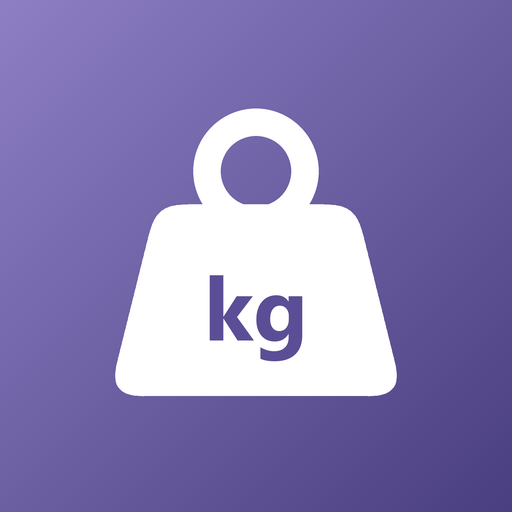
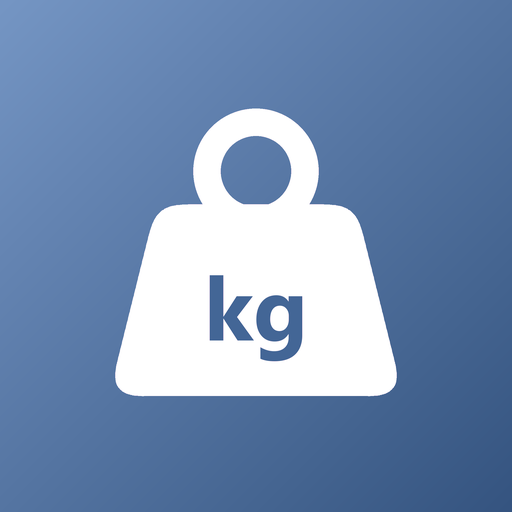
0.1.13: гама «Глибокий синій» — синій акцент і середнє, кораловий план, сиреневу талію; іконка в тон; вибраний день на графіку позначено кільцем

Changed region(s): [[0.0, 0.0, 0.4375, 0.4375], [0.4062, 0.5312, 0.5938, 0.7188]]

diff --git a/css/app.css b/css/app.css
@@ -1,24 +1,24 @@
 :root {
-  --bg: #121019;
-  --bg-glow: #1f1830;
-  --surface: #19161f;
-  --surface-2: #231f2c;
-  --line: #322c3d;
-  --line-soft: #292433;
-  --text: #eeebf3;
-  --muted: #9d96a8;
-  --accent: #7d6bb8;
-  --accent-2: #a99cd6;
+  --bg: #0c111a;
+  --bg-glow: #132038;
+  --surface: #121926;
+  --surface-2: #1a2333;
+  --line: #26324a;
+  --line-soft: #1f2a3d;
+  --text: #e9eef7;
+  --muted: #8f9bb0;
+  --accent: #3f7fd9;
+  --accent-2: #79aaf0;
   --accent-soft: color-mix(in srgb, var(--accent) 16%, transparent);
   --good: #4cc38a;
   --bad: #e2725b;
   --warn: #dbad3a;
-  /* серії графіка: середнє — акцент, план — рожевий, точки зважувань — нейтральні */
+  /* серії графіка: середнє — акцент, план — кораловий, точки зважувань — нейтральні */
   --c-avg: var(--accent-2);
-  --c-plan: #d99ab5;
+  --c-plan: #e39a7a;
   --c-kg: #b7c2ca;
   --c-ring: #e8b04a;
-  --c-waist: #6fb5e8;
+  --c-waist: #c3a3ea;
   --radius: 16px;
   --tabs-h: 64px;
   --shadow: 0 1px 0 rgb(255 255 255 / .03) inset, 0 6px 16px rgb(0 0 0 / .22);
@@ -27,24 +27,24 @@
 
 /* Тему ставить data-theme на <html>: скрипт у index.html ще до малювання, потім app.js. */
 :root[data-theme="light"] {
-  --bg: #f4f2f7;
-  --bg-glow: #e9e3f4;
+  --bg: #f1f4f9;
+  --bg-glow: #dfe8f6;
   --surface: #ffffff;
-  --surface-2: #eeebf2;
-  --line: #ddd8e4;
-  --line-soft: #e8e4ee;
-  --text: #1c1726;
-  --muted: #686175;
-  --accent: #63559e;
-  --accent-2: #54478c;
+  --surface-2: #e9eef5;
+  --line: #d5dce8;
+  --line-soft: #e3e8f0;
+  --text: #141b27;
+  --muted: #5d6878;
+  --accent: #2563b8;
+  --accent-2: #1d529c;
   --good: #1f8a55;
   --bad: #c2462d;
-  --c-avg: #63559e;
-  --c-plan: #a8577c;
+  --c-avg: #2563b8;
+  --c-plan: #b8603d;
   --c-kg: #7c8890;
   --c-ring: #b8790f;
-  --c-waist: #2b7fc0;
-  --shadow: 0 1px 2px rgb(35 20 50 / .06), 0 6px 16px rgb(35 20 50 / .06);
+  --c-waist: #7a4fb0;
+  --shadow: 0 1px 2px rgb(20 30 50 / .06), 0 6px 16px rgb(20 30 50 / .06);
   color-scheme: light;
 }
 
@@ -306,6 +306,7 @@ button, input, select, textarea { font: inherit; color: inherit; }
 .chart-svg .series-dots circle.ring { fill: none; stroke: var(--c-ring); stroke-width: 1.3; opacity: .85; }
 .chart-svg .hline line { stroke: var(--muted); stroke-width: 1; opacity: .35; }
 .chart-svg .hline.target line { stroke: var(--accent-2); opacity: .8; }
+.chart-svg .picked circle { fill: none; stroke: var(--accent-2); stroke-width: 2.5; }
 .chart-svg .cursor line { stroke: var(--muted); stroke-width: 1; }
 .chart-svg .cursor .hit { stroke: var(--surface); stroke-width: 2; }
 .chart-svg .cursor .hit.s-avg { fill: var(--c-avg); }
@@ -698,10 +699,10 @@ button.row { cursor: pointer; }
   margin: 0 auto;
   padding: 12px 14px;
   border-radius: 14px;
-  background: #2c2638;
-  color: #f1eef6;
+  background: #1f2a3f;
+  color: #eef2f9;
   box-shadow: 0 10px 24px rgb(0 0 0 / .35);
   animation: toast-in .18s ease;
 }
-.toast button { border: 0; background: none; color: #c6bde6; font-weight: 800; cursor: pointer; padding: 4px 8px; }
+.toast button { border: 0; background: none; color: #9cc0f5; font-weight: 800; cursor: pointer; padding: 4px 8px; }
 @keyframes toast-in { from { opacity: 0; transform: translateY(8px); } }

diff --git a/js/chart.js b/js/chart.js
@@ -275,6 +275,16 @@ export function lineChart(spec) {
     });
     svg.append(marks, labels);
 
+    // Вибраний день — кільце навколо точки (зважування, а без точок — лінії), без курсора й підказки
+    const picked = s('g', { class: 'picked' });
+    svg.append(picked);
+    const mark = (date) => {
+      const se = spec.series.find((x) => x.kind === 'dots' && !x.aside) ?? spec.series.find((x) => x.kind === 'line' && !x.aside);
+      const p = date && dates.includes(date) ? se?.points.find((q) => q.date === date && Number.isFinite(q.v)) : null;
+      picked.replaceChildren(...(p ? [s('circle', { cx: x(date).toFixed(1), cy: y(p.v).toFixed(1), r: 7 })] : []));
+    };
+    mark(selected);
+
     const cursor = s('g', { class: 'cursor', visibility: 'hidden' }, s('line', { y1: pad.t, y2: height - pad.b }));
     const hits = s('g', {});
     cursor.append(hits);
@@ -315,7 +325,7 @@ export function lineChart(spec) {
       return Math.max(0, Math.min(1, (py - pad.t) / ih));
     };
     if (svg.parentNode !== plot) plot.replaceChildren(svg);
-    cur = { place, nearest, frac, fracY, y: [lo, hi], autoY, daysPerPx: spanDays / iw / (svg.getBoundingClientRect().width / width || 1) };
+    cur = { place, mark, nearest, frac, fracY, y: [lo, hi], autoY, daysPerPx: spanDays / iw / (svg.getBoundingClientRect().width / width || 1) };
     place(null);
   }
 
@@ -366,6 +376,7 @@ export function lineChart(spec) {
       lastTap = { at: now, x: e.clientX };
     }
     selected = cur.nearest(e.clientX);
+    cur.mark(selected);
     cur.place(was.mouse ? selected : null);
     if (selected) spec.onPick?.(selected);
   });

diff --git a/js/app.js b/js/app.js
@@ -883,7 +883,7 @@ function applyTheme() {
   const pref = themePref();
   const theme = pref === 'auto' ? (lightScheme.matches ? 'light' : 'dark') : pref;
   document.documentElement.dataset.theme = theme;
-  document.querySelector('meta[name="theme-color"]')?.setAttribute('content', theme === 'light' ? '#f4f2f7' : '#121019');
+  document.querySelector('meta[name="theme-color"]')?.setAttribute('content', theme === 'light' ? '#f1f4f9' : '#0c111a');
 }
 
 lightScheme.addEventListener('change', applyTheme);

diff --git a/index.html b/index.html
@@ -3,7 +3,7 @@
 <head>
   <meta charset="utf-8">
   <meta name="viewport" content="width=device-width, initial-scale=1, viewport-fit=cover">
-  <meta name="theme-color" content="#121019">
+  <meta name="theme-color" content="#0c111a">
   <meta name="description" content="Щоденна вага, середнє за 7 днів, темп і прогноз досягнення цілі">
   <title>Вага</title>
   <link rel="manifest" href="manifest.webmanifest">

diff --git a/version.js b/version.js
@@ -1,2 +1,2 @@
 // Підняти при кожному релізі: від цього залежить оновлення кешу service worker.
-self.APP_VERSION = '0.1.12';
+self.APP_VERSION = '0.1.13';
